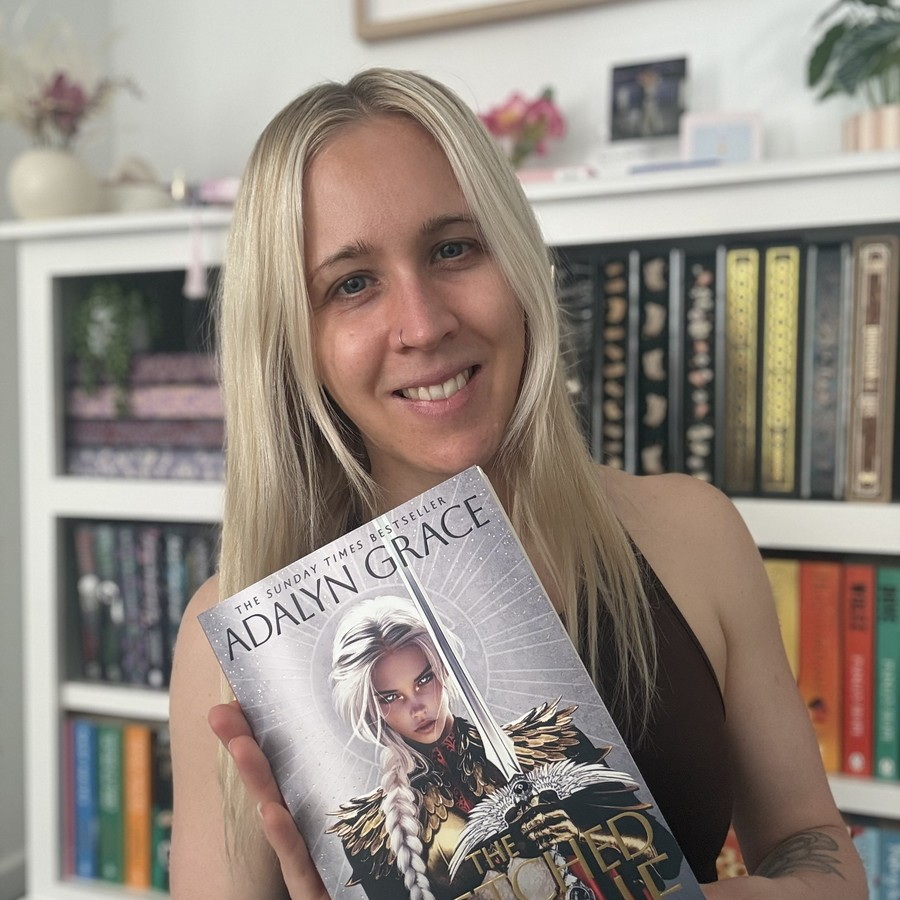
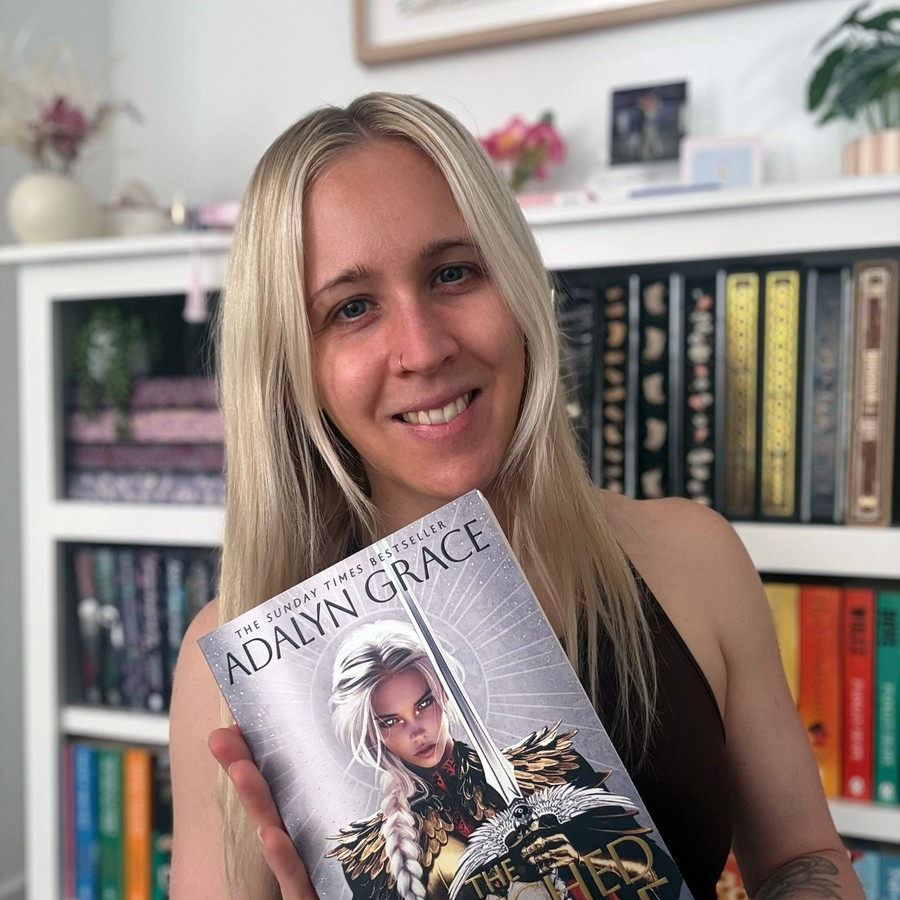
Profile photo: updated shot
Claude-Session: https://claude.ai/code/session_01Wkp98umZnBvbqqd53fYVh8

diff --git a/index.html b/index.html
@@ -57,7 +57,7 @@ main { position: relative; z-index: 1; width: 100%; max-width: 520px; margin: 0 
 /* profile */
 .profile { text-align: center; }
 .avatar { width: 136px; height: 136px; border-radius: 50%; overflow: hidden; margin: 0 auto 22px; border: 3px solid var(--paper); box-shadow: 0 0 0 1.5px var(--rose), 0 14px 34px rgba(201,102,138,.22); }
-.avatar img { width: 100%; height: 100%; object-fit: cover; object-position: 50% 22%; }
+.avatar img { width: 100%; height: 100%; object-fit: cover; object-position: 50% 28%; }
 @media (min-width: 600px) { .avatar { width: 152px; height: 152px; } }
 .name { font-family: var(--fh); font-weight: 400; font-size: 38px; letter-spacing: .01em; line-height: 1; }
 .bio { margin: 16px auto 0; max-width: 420px; color: var(--ink70); font-size: 15.5px; line-height: 1.65; }
